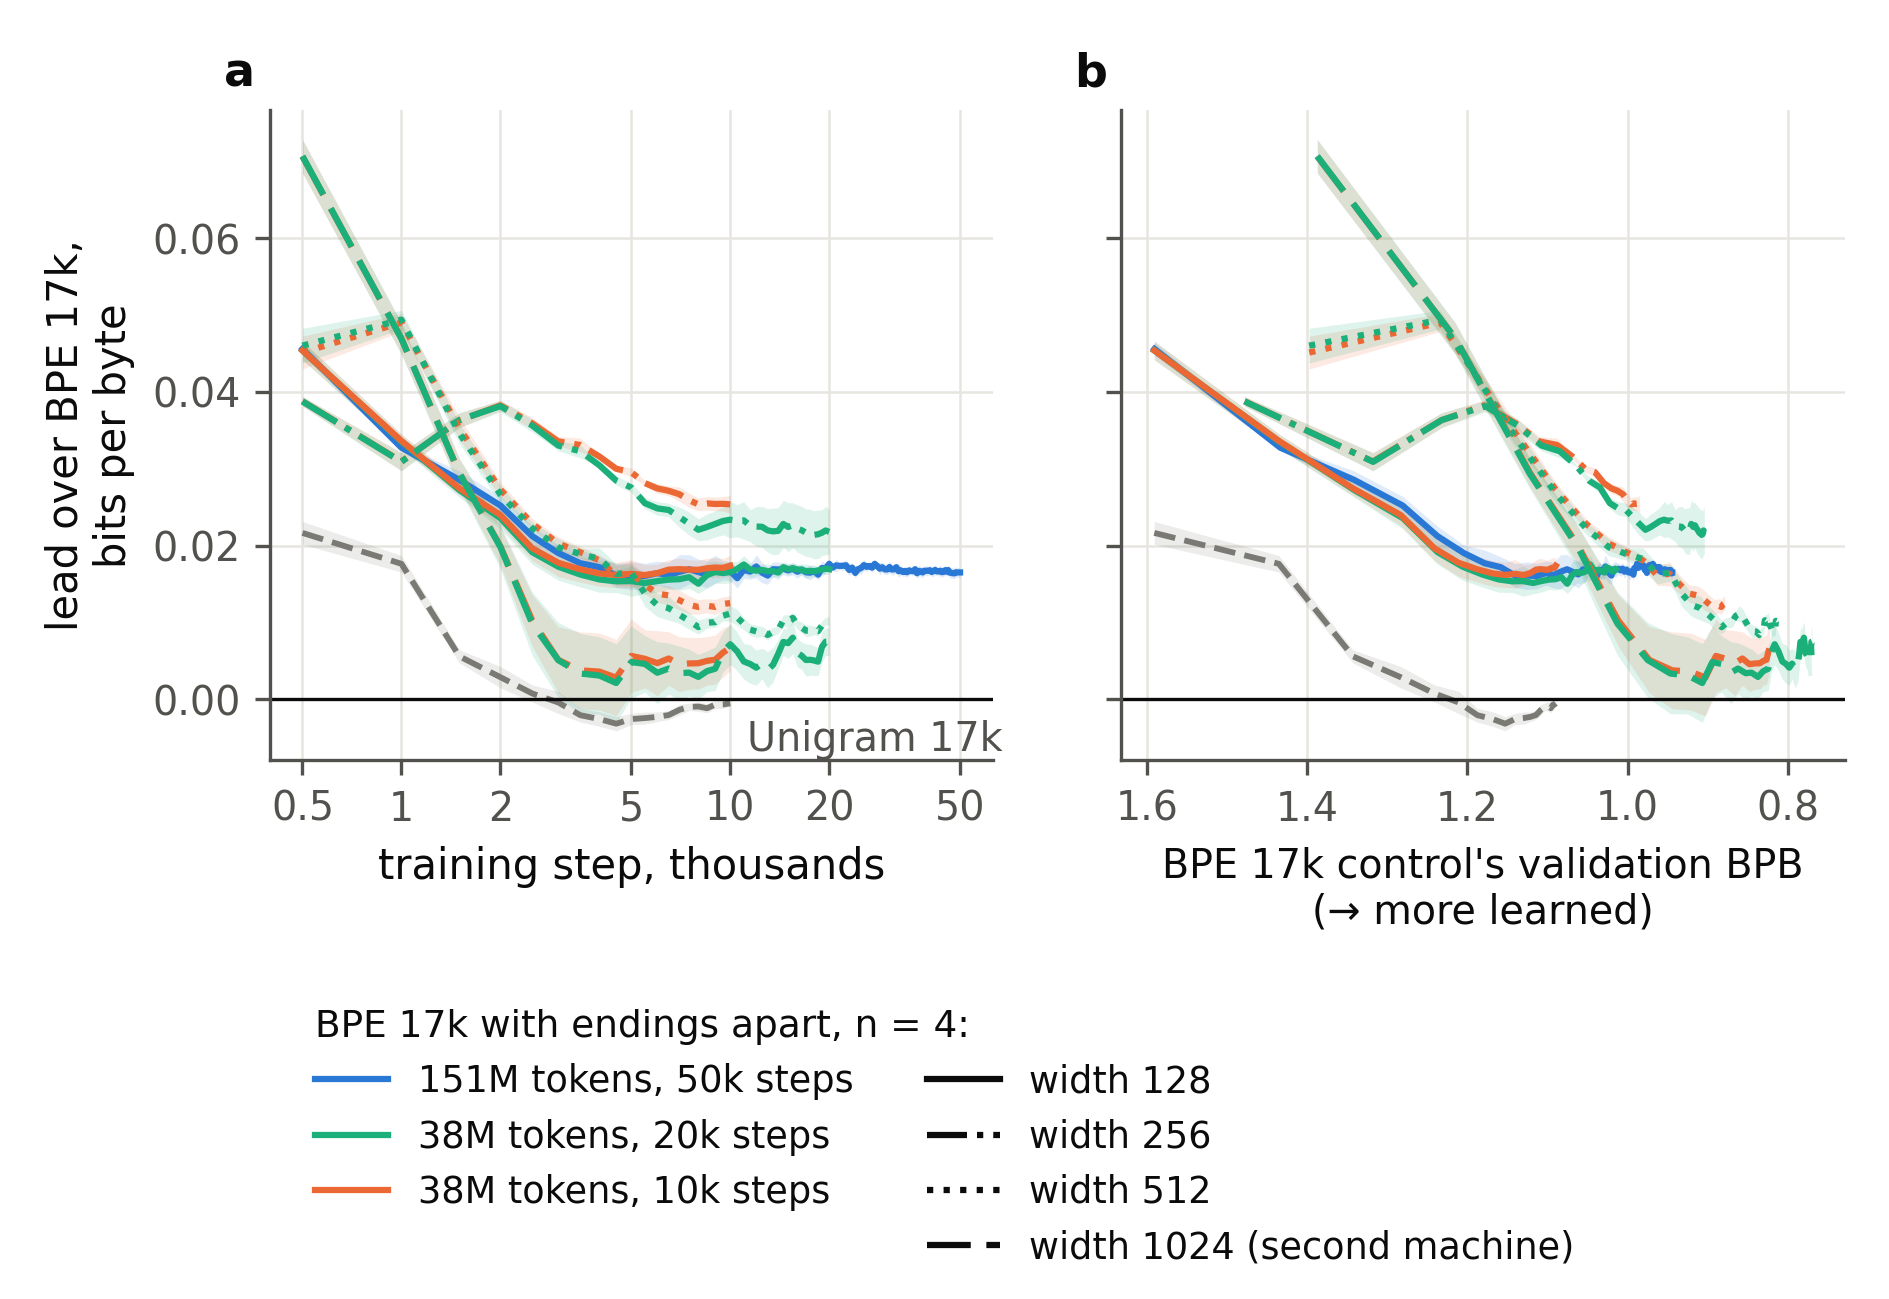
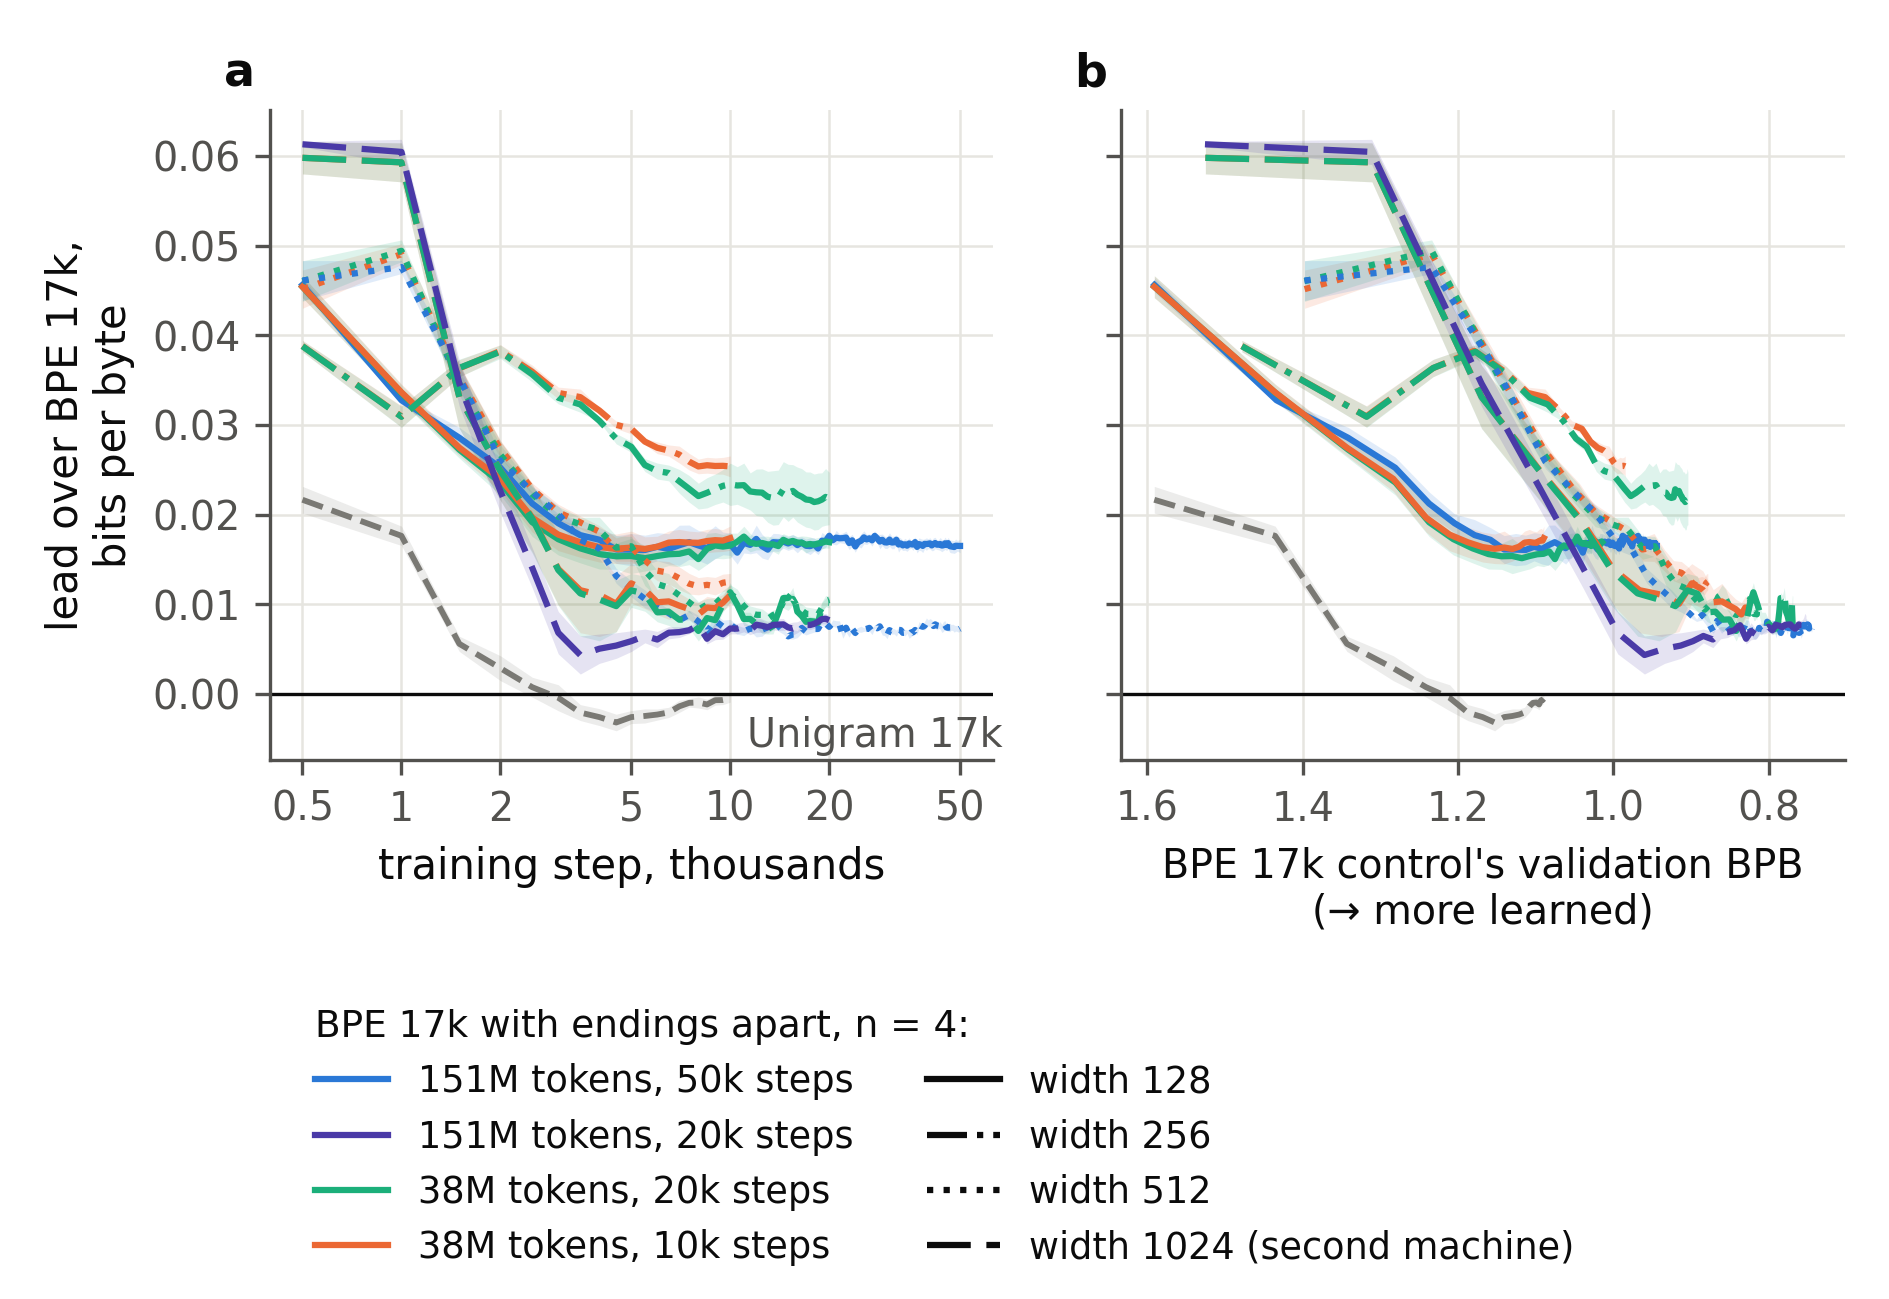
The tokenizer figure draws width 1024 with the 1,000-step warm-up and width 512 at full training
What changed for the thesis:
- exports/figures/{uk,en}/fig_tokenizer.png (the tokenizer's lead along training and against the
  BPE 17k control's BPB) now match the tokenizer table:
  - width 1024 from its three cells with the 1,000-step warm-up: ~38M tokens at 10k and at 20k,
    and 151M tokens at 20k (journey §33.132, §33.141), in place of the 100-step runs;
  - width 512 at full training, 151M tokens and 50k (§33.142), level from step 10,000 to the end.
  - The new key, 151M tokens at 20k, takes the palette's indigo: its amber is too close to the
    orange-red already in the figure (OKLab 13.7 to normal vision, below the floor of 15).
  - Width 1024's runs and width 512's full-training runs are the second machine's.
- exports/runs.csv marks the weekend's 44 models as held on the thesis machine; exports/audits.md
  lists the work-size record of 26 October.

diff --git a/scripts/analysis/thesis_figures.py b/scripts/analysis/thesis_figures.py
@@ -16,8 +16,9 @@ controls and contrasts in grey.
   fig_law_english   English part of speech's: by schedule, and by model width
   fig_tokenizer     BPE 17k with endings apart against BPE 17k, null against null,
                     along training and against the reference null's BPB, with
-                    Unigram 17k for contrast; width 1024's runs are all the second
-                    machine's, and its legend key says so
+                    Unigram 17k for contrast; width 1024's runs, with the 1,000-step
+                    warm-up it needs (journey §33.132), are all the second machine's,
+                    and its legend key says so; so is width 512 at full training
 
 A figure is drawn only if every run it is planned to show exists (as in
 demo_figures.py): one that silently dropped points would read as another result.
@@ -79,6 +80,9 @@ UK = lambda f, fr='0.2', x='': TOK(f, 'bpe_uk_17k', fr, x)
 T = lambda f, t: TOK(f, t)
 U5 = lambda f, x='': UK(f, '0.05', x)
 LONG_DASH = (0, (7, 2.5))      # width 1024: a fourth line style after '-', '-.', ':' (Unigram's grey '--' is shorter)
+# fig_tokenizer's fourth colour key takes the palette's indigo (SERIES[6]), not its amber: all four keys share a
+# panel, and amber against orange-red is 13.7 in OKLab (×100) to normal vision, below the floor of 15; indigo is
+# 16.3 or more against each of the three, and 13.0 or more under simulated colour blindness
 
 TXT = {
     'uk': {
@@ -122,10 +126,12 @@ TXT = {
                 ('38 млн токенів, 20 тис. кроків, ширина 256', '0.05', '_st20k_w256', 2, '-.'),
                 ('38 млн токенів, 10 тис. кроків, ширина 512', '0.05', '_st10k_w512', 1, ':'),
                 ('38 млн токенів, 20 тис. кроків, ширина 512', '0.05', '_st20k_w512', 2, ':'),
-                ('38 млн токенів, 10 тис. кроків, ширина 1024', '0.05', '_st10k_w1024', 1, LONG_DASH),
-                ('38 млн токенів, 20 тис. кроків, ширина 1024', '0.05', '_st20k_w1024', 2, LONG_DASH)],
-        'tok_keys': [('151 млн токенів, 50 тис. кроків', 0), ('38 млн токенів, 20 тис. кроків', 2),
-                     ('38 млн токенів, 10 тис. кроків', 1)],
+                ('151 млн токенів, 50 тис. кроків, ширина 512', '0.2', '_w512', 0, ':'),
+                ('38 млн токенів, 10 тис. кроків, ширина 1024', '0.05', '_wu1000_st10k_w1024', 1, LONG_DASH),
+                ('38 млн токенів, 20 тис. кроків, ширина 1024', '0.05', '_wu1000_st20k_w1024', 2, LONG_DASH),
+                ('151 млн токенів, 20 тис. кроків, ширина 1024', '0.2', '_wu1000_st20k_w1024', 6, LONG_DASH)],
+        'tok_keys': [('151 млн токенів, 50 тис. кроків', 0), ('151 млн токенів, 20 тис. кроків', 6),
+                     ('38 млн токенів, 20 тис. кроків', 2), ('38 млн токенів, 10 тис. кроків', 1)],
         'tok_widths': [('ширина 128', '-'), ('ширина 256', '-.'), ('ширина 512', ':'),
                        ('ширина 1024 (друга машина)', LONG_DASH)],
         'unigram': 'Unigram 17k',
@@ -157,9 +163,12 @@ TXT = {
                 ('38M tokens, 20k steps, width 256', '0.05', '_st20k_w256', 2, '-.'),
                 ('38M tokens, 10k steps, width 512', '0.05', '_st10k_w512', 1, ':'),
                 ('38M tokens, 20k steps, width 512', '0.05', '_st20k_w512', 2, ':'),
-                ('38M tokens, 10k steps, width 1024', '0.05', '_st10k_w1024', 1, LONG_DASH),
-                ('38M tokens, 20k steps, width 1024', '0.05', '_st20k_w1024', 2, LONG_DASH)],
-        'tok_keys': [('151M tokens, 50k steps', 0), ('38M tokens, 20k steps', 2), ('38M tokens, 10k steps', 1)],
+                ('151M tokens, 50k steps, width 512', '0.2', '_w512', 0, ':'),
+                ('38M tokens, 10k steps, width 1024', '0.05', '_wu1000_st10k_w1024', 1, LONG_DASH),
+                ('38M tokens, 20k steps, width 1024', '0.05', '_wu1000_st20k_w1024', 2, LONG_DASH),
+                ('151M tokens, 20k steps, width 1024', '0.2', '_wu1000_st20k_w1024', 6, LONG_DASH)],
+        'tok_keys': [('151M tokens, 50k steps', 0), ('151M tokens, 20k steps', 6), ('38M tokens, 20k steps', 2),
+                     ('38M tokens, 10k steps', 1)],
         'tok_widths': [('width 128', '-'), ('width 256', '-.'), ('width 512', ':'),
                        ('width 1024 (second machine)', LONG_DASH)],
         'unigram': 'Unigram 17k',

diff --git a/exports/audits.md b/exports/audits.md
@@ -407,6 +407,7 @@
 | `ukwiki_stats` | 2026-09-28T22:39:28+00:00 | holdout=2000 target_chars=539000000.0 | splits, suggested_fraction |
 | `work_size` | 2026-10-24T02:14:11+00:00 | results=/home/neko/PycharmProjects/Morph/results | batch_window, per_machine, rows, total |
 | `work_size` | 2026-10-24T02:14:50+00:00 | results=/home/neko/PycharmProjects/Morph/results | batch_window, per_machine, rows, total |
+| `work_size` | 2026-10-26T10:20:23+00:00 | results=/home/neko/PycharmProjects/Morph/results | batch_window, per_machine, rows, total |
 
 ## Caveats recorded with the numbers
 
